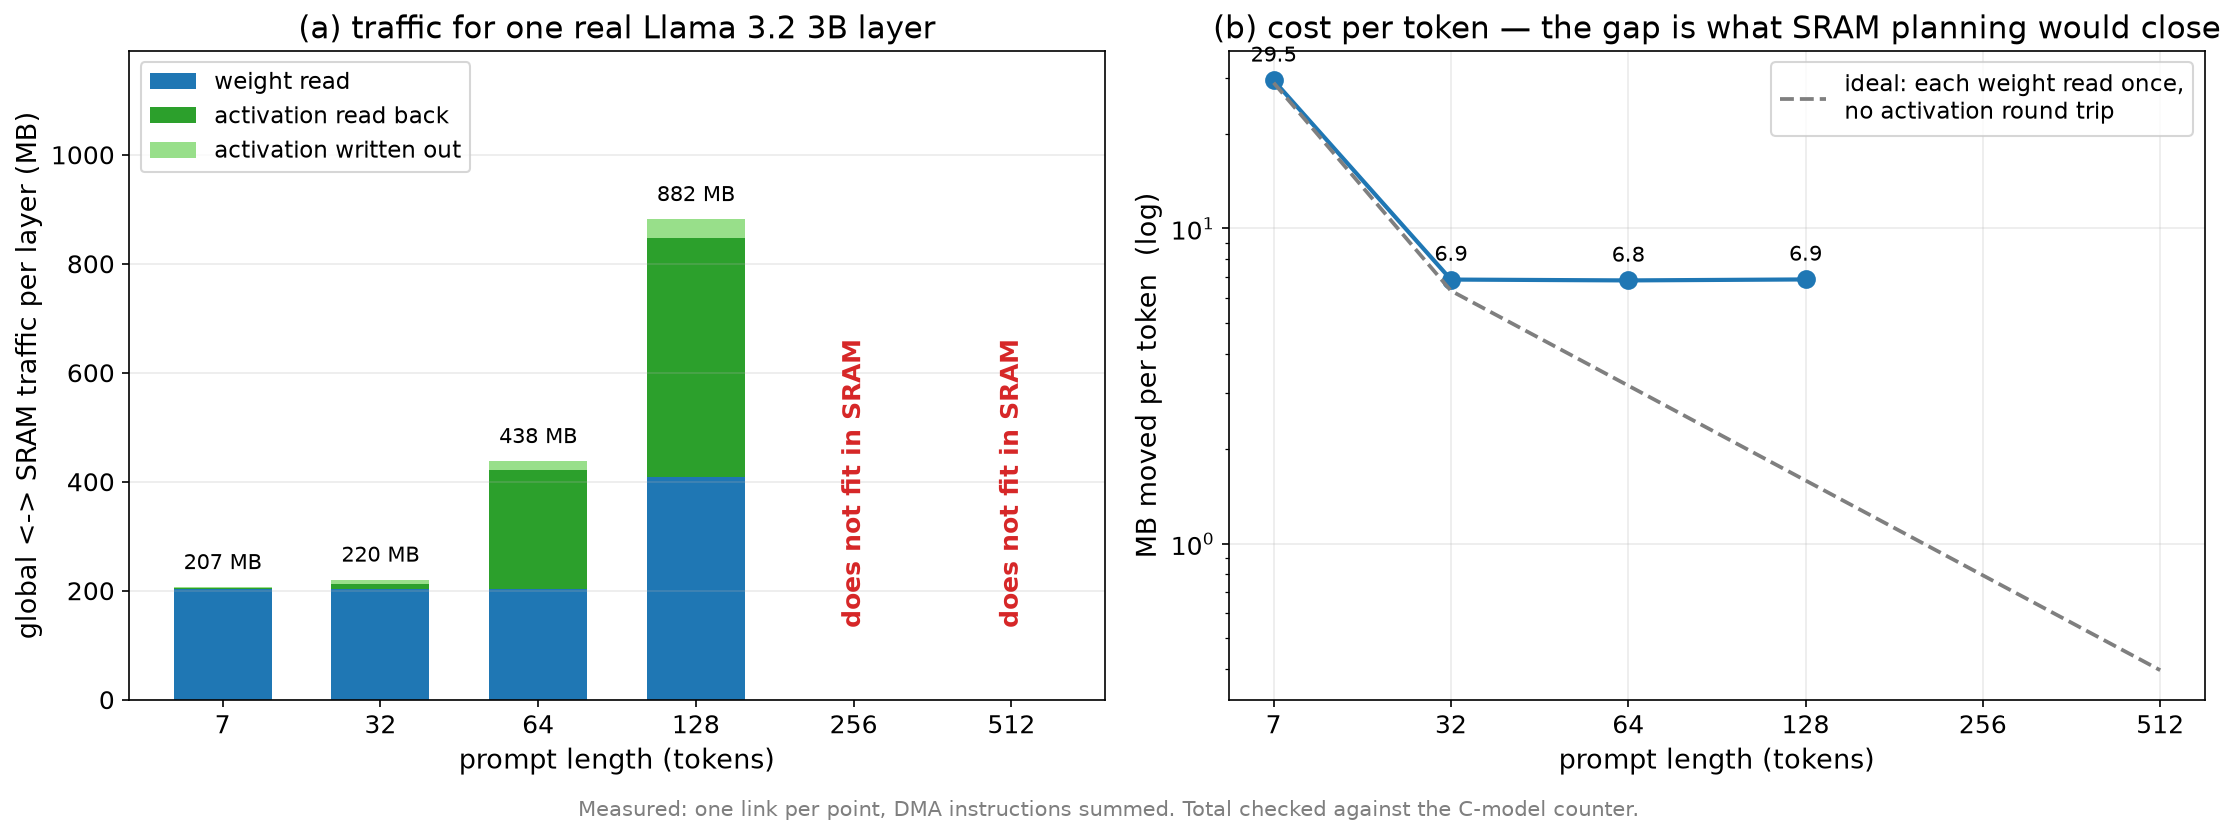
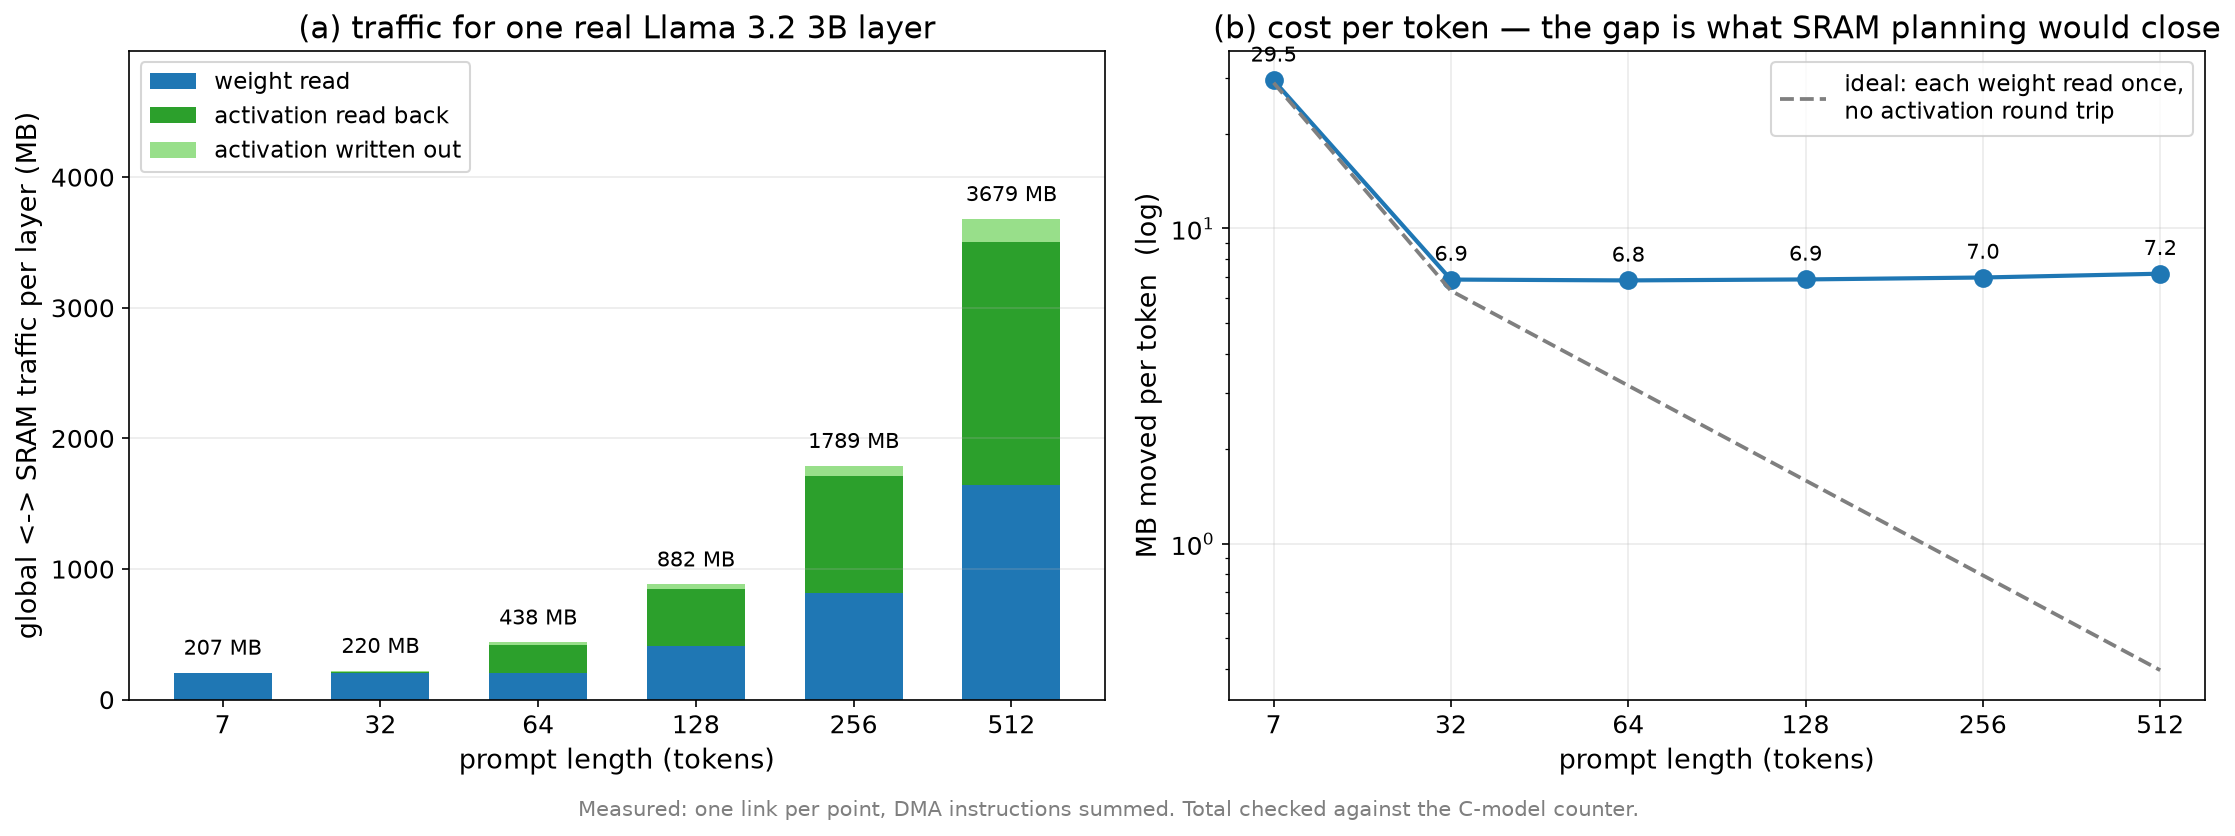
stripe the elementwise and normalisation kernels
Long prompts did not compile.  At 256 tokens a single kernel asked for 9.00
MiB of the 8 MiB SRAM and the link stopped; at 512 it was 9.04.  Measuring
which kernels overflow settled what the fix had to be: all eight are
elementwise or normalisation, and no matmul is among them.

  seq 512   softmax, add2            36 MiB   [24,512,512] attention scores
            silu, multiply3/2        24 MiB   [512,8192]   FFN
            npu_rms_norm, add3     9-12 MiB   [512,3072]

schedule_generic_sram staged whole tensors -- matmul is tiled by compute_at,
the generic path had no equivalent step.  These kernels turn out to share one
shape: every block iterates the result's leading axes and then one inner axis.
That is enough for the transformation dlight uses on normalisation -- fuse the
leading axes into a single row loop, split it, and pull the rest of the kernel
inside, after which CompactBufferAllocation sizes every staged buffer to the
stripe.

  silu          24.09 MiB -> 3.00
  npu_rms_norm  12.04     -> 1.51
  add2          36.01     -> 0.19
  softmax       36.05     -> 0.19

The stripe is chosen by the linker, not the schedule, which is the design's
feedback loop in its smallest form (_fit_kernel).  The first attempt is the
existing whole-tensor schedule; only if the placement -- measured after the
TIR passes have sized the buffers, not estimated -- exceeds capacity does the
stripe appear, halving until it fits.  So a kernel that already fit is
[…]

diff --git a/d_compiler/npu_compiler/npu_intrin.py b/d_compiler/npu_compiler/npu_intrin.py
@@ -303,6 +303,109 @@ def schedule_elementwise(mod, func_name, block_name, intrin):
 register_all()
 
 
+def generic_row_count(mod, func_name):
+    """Rows the kernel's result iterates, or None if it has no row axis.
+
+    The stripe is measured in these rows; a kernel whose output is a single
+    loop (a per-row scalar, say) has nothing to stripe.
+    """
+    sch = tir.Schedule(mod)
+    root = sch.get_block("root", func_name=func_name)
+    prim = sch.mod[func_name]
+    output = prim.buffer_map[prim.params[-1]].data
+    for block_rv in sch.get_child_blocks(root):
+        block = sch.get(block_rv)
+        if block.writes and block.writes[0].buffer.data.same_as(output):
+            loops = sch.get_loops(block_rv)
+            if len(loops) < 2:
+                return None
+            rows = 1
+            for loop in loops[:-1]:
+                rows *= int(sch.get(loop).extent)
+            return rows
+    return None
+
+
+def schedule_generic_striped(mod, func_name, stripe):
+    """Stage a non-matmul kernel ``stripe`` rows at a time.
+
+    ``schedule_generic_sram`` stages whole tensors, which stops fitting once
+    the prompt grows: at 512 tokens a normalisation kernel alone asks for
+    9 MiB of the 8 MiB SRAM.  These kernels all iterate their result's leading
+    axes and then one inner axis, so fusing the leading axes gives one row
+    loop that every block of the kernel shares.  Splitting it and pulling the
+    rest of the kernel inside makes every staged buffer ``stripe`` rows tall,
+    which is what CompactBufferAllocation then sizes them to.
+
+    Returns None when the kernel does not have that shape, so the caller can
+    keep the whole-tensor schedule rather than get a wrong one.
+    """
+    sch = tir.Schedule(mod)
+    root = sch.get_block("root", func_name=func_name)
+    children = sch.get_child_blocks(root)
+    prim = sch.mod[func_name]
+    params = {prim.buffer_map[p].data for p in prim.params}
+    output = prim.buffer_map[prim.params[-1]].data
+
+    # the block writing the kernel's result anchors the stripe loop
+    anchor = None
+    for block_rv in children:
+        block = sch.get(block_rv)
+        if block.writes and block.writes[0].buffer.data.same_as(output):
+            anchor = block_rv
+    if anchor is None:
+        return None
+    anchor_name = sch.get(anchor).name_hint
+    loops = sch.get_loops(anchor)
+    if len(loops) < 2:
+        return None
+    outer, _ = sch.split(sch.fuse(*loops[:-1]), [None, stripe])
+
+    # every other block produces something the result needs, so pulling them
+    # under the stripe loop is what shrinks their buffers too; nearest
+    # producer first, which is the order compute_at can verify
+    for block_rv in reversed(children):
+        if sch.get(block_rv).name_hint == anchor_name:
+            continue
+        try:
+            sch.compute_at(block_rv, outer)
+        except Exception:
+            return None
+
+    def blocks():
+        return sch.get_child_blocks(sch.get_block("root", func_name=func_name))
+
+    # from here the three steps are schedule_generic_sram's, with the staging
+    # placed at the stripe loop instead of the whole loop nest
+    for block_rv in blocks():
+        block = sch.get(block_rv)
+        if not block.writes:
+            continue
+        target = block.writes[0].buffer
+        if not any(target.data.same_as(p) for p in params):
+            try:
+                sch.set_scope(block_rv, 0, SRAM_SCOPE)
+            except Exception:
+                pass
+
+    for block_rv in blocks():
+        if sch.get(block_rv).name_hint == anchor_name:
+            sch.reverse_compute_at(sch.cache_write(block_rv, 0, SRAM_SCOPE),
+                                   outer)
+            break
+
+    for block_rv in blocks():
+        block = sch.get(block_rv)
+        for index, region in enumerate(block.reads):
+            if region.buffer.data in params:
+                try:
+                    sch.compute_at(sch.cache_read(block_rv, index, SRAM_SCOPE),
+                                   outer)
+                except Exception:
+                    pass
+    return sch.mod
+
+
 def schedule_generic_sram(mod, func_name):
     """Stage a non-matmul kernel entirely in SRAM.
 

diff --git a/d_compiler/npu_compiler/npu_link.py b/d_compiler/npu_compiler/npu_link.py
@@ -43,14 +43,25 @@ def _is_matmul(prim):
     return bool(found)
 
 
-def _schedule(module, gvar, prim, tile=64):
-    """Apply the NPU schedule this kernel needs; every kernel ends up staged."""
+def _schedule(module, gvar, prim, tile=64, stripe=None):
+    """Apply the NPU schedule this kernel needs; every kernel ends up staged.
+
+    ``stripe`` narrows a non-matmul kernel to that many result rows at a time;
+    None stages whole tensors, which is what every kernel that fits gets.
+    """
     name = gvar.name_hint
     try:
         if _is_matmul(prim):
             scheduled = npu_intrin.schedule_matmul_sram(module, name, tile)
-        else:
+        elif stripe is None:
             scheduled = npu_intrin.schedule_generic_sram(module, name)
+        else:
+            scheduled = npu_intrin.schedule_generic_striped(module, name,
+                                                            stripe)
+            if scheduled is None:
+                raise LinkError(f"{name}: cannot be striped")
+    except LinkError:
+        raise
     except Exception as error:
         raise LinkError(f"{name}: {type(error).__name__}: "
                         f"{str(error).splitlines()[-1][:120]}") from error
@@ -153,6 +164,37 @@ def _collect_constants(prim):
 
     tir.stmt_functor.post_order_visit(prim.body, visit)
     return values
+
+
+def _fit_kernel(planned, gvar, prim, profile, scratch_base, slot_count):
+    """Schedule a kernel, narrowing its stripe until its buffers fit SRAM.
+
+    The first attempt stages whole tensors, so a kernel that already fits is
+    scheduled exactly as it was before this loop existed.  Only when it does
+    not does a stripe appear.  What is checked is the placement after the TIR
+    passes have sized the buffers, not an estimate -- pad_einsum's padding,
+    CompactBufferAllocation's shrinking and the kernel's scratch width are
+    only known then.
+    """
+    stripe, rows = None, None
+    while True:
+        scheduled = _schedule(planned, gvar, prim, profile.tile, stripe)
+        elems = _scratch_row(scheduled)
+        buffers = _sram_buffers(scheduled)
+        start = scratch_base + slot_count * elems * 4
+        _, top = _place_sram(buffers, start)
+        if top <= profile.sram_nibbles:
+            return scheduled, elems, buffers
+        if rows is None:
+            rows = npu_intrin.generic_row_count(planned, gvar.name_hint)
+            stripe = rows
+        if not rows or stripe <= 1:
+            raise LinkError(
+                f"{gvar.name_hint}: needs "
+                f"{top / 2 / 1024 / 1024:.2f} MiB of "
+                f"{profile.sram_nibbles / 2 / 1024 / 1024:.2f} MiB and "
+                f"cannot be narrowed further")
+        stripe //= 2
 
 
 def _native_default():
@@ -277,9 +319,8 @@ def compile_program(mod, func_name="prefill", snapshot_at=None,
             # doing it per call site was 64% of the link.
             recipe = recipes.get(call.op)
             if recipe is None:
-                scheduled = _schedule(planned, call.op, prim, profile.tile)
-                recipe = (scheduled, _scratch_row(scheduled),
-                          _sram_buffers(scheduled))
+                recipe = _fit_kernel(planned, call.op, prim, profile,
+                                     scratch_base, slot_count)
                 recipes[call.op] = recipe
             scheduled, scratch_elems, sram_buffers = recipe
             addresses = []

diff --git a/report/figs/0901/plot_traffic.py b/report/figs/0901/plot_traffic.py
@@ -7,8 +7,10 @@ say 1,619,976,421 cells for the 28-layer program).
 
 The point of these two figures is that every gate we run is seq=7, and at that
 one point the compiler looks optimal: weights are read exactly once and
-activation round trips are 1% of traffic.  Both of those stop being true as
-the prompt grows, and SRAM stops fitting altogether.
+activation round trips are 1% of traffic.  Neither stays true as the prompt
+grows.  SRAM occupancy used to grow with it too and stopped fitting at 256;
+striping the elementwise and normalisation kernels caps it at ~6.1 MiB, so
+what is left in these figures is traffic, not capacity.
 
 Colours: categorical blue/green for the two traffic kinds that behave
 differently, red reserved for the capacity violation, grey for recessive
@@ -147,10 +149,10 @@ for xi, value, height in zip(x, peak, heights):
              color="black" if value is not None else FAIL_C)
 ax1.set_xticks(x)
 ax1.set_xticklabels(labels)
-ax1.set_ylim(0, max(heights) * 1.32)
+ax1.set_ylim(0, max(max(heights), CAPACITY) * 1.22)
 ax1.set_xlabel("prompt length (tokens)")
 ax1.set_ylabel("peak SRAM a kernel needs (MiB)")
-ax1.set_title("(a) the wall: elementwise kernels stage whole tensors")
+ax1.set_title("(a) a stripe caps what a kernel needs")
 ax1.grid(axis="y", alpha=0.25)
 
 # weight re-reads: the closed-form prediction, and what was measured
@@ -168,14 +170,11 @@ for xi, value in good:
 ax2.axhline(1.0, color=ACT_C, linestyle=":", linewidth=2)
 ax2.text(len(x) - 0.15, 1.12, "floor: every weight read once", color=ACT_C,
          fontsize=11, ha="right")
-ax2.text(len(x) - 0.15, predicted[-1] * 0.72,
-         "measured stops at 128:\nlonger prompts do not link", color=GREY,
-         fontsize=10, ha="right")
 ax2.set_xticks(x)
 ax2.set_xticklabels(labels)
 ax2.set_xlabel("prompt length (tokens)")
 ax2.set_ylabel("weight bytes moved / weight bytes")
-ax2.set_title("(b) weights get re-read once the prompt exceeds one M-tile")
+ax2.set_title("(b) weights are still re-read past one M-tile")
 ax2.legend(loc="upper left")
 ax2.grid(alpha=0.25)
 
